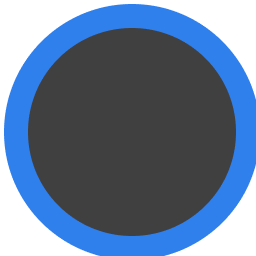
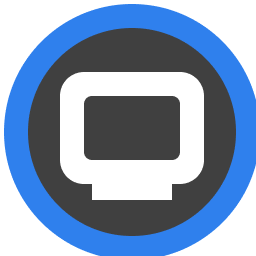
Basic menu opening

Changed region(s): [[0.2188, 0.2812, 0.8125, 0.7812]]

diff --git a/src/react-components/2d-hud.js b/src/react-components/2d-hud.js
@@ -9,55 +9,94 @@ class TopHUD extends Component {
   static propTypes = {
     muted: PropTypes.bool,
     frozen: PropTypes.bool,
-    videoShareSource: PropTypes.bool,
+    videoShareSource: PropTypes.string,
+    availableVREntryTypes: PropTypes.object,
     onToggleMute: PropTypes.func,
     onToggleFreeze: PropTypes.func,
     onSpawnPen: PropTypes.func,
     onSpawnCamera: PropTypes.func,
-    onShareVideo: PropTypes.func
+    onShareVideo: PropTypes.func,
+    onEndShareVideo: PropTypes.func
   };
 
   state = {
     showVideoShareOptions: false
   };
 
-  handleVideoShareClicked = source => {};
+  handleVideoShareClicked = source => {
+    if (this.props.videoShareSource) {
+      this.props.onEndShareVideo();
+    } else {
+      this.props.onShareVideo(source);
+    }
+  };
+
+  buildVideoSharingButtons = () => {
+    if (this.props.availableVREntryTypes.isInHMD) return null;
+
+    const videoShareExtraOptionTypes = [];
+    const primaryVideoShareType = this.props.videoShareSource || (AFRAME.utils.device.isMobile() ? "camera" : "screen");
+
+    if (this.state.showVideoShareOptions) {
+      videoShareExtraOptionTypes.push(primaryVideoShareType);
+
+      ["screen", "window", "camera"].forEach(t => {
+        if (videoShareExtraOptionTypes.indexOf(t) === -1) {
+          videoShareExtraOptionTypes.push(t);
+        }
+      });
+    }
+
+    const showExtrasOnHover = () => {
+      clearTimeout(this.hideVideoSharingButtonTimeout);
+      this.setState({ showVideoShareOptions: true });
+    };
+
+    const hideExtrasOnOut = () => {
+      this.hideVideoSharingButtonTimeout = setTimeout(() => {
+        this.setState({ showVideoShareOptions: false });
+      }, 250);
+    };
+
+    return (
+      <div
+        className={cx(styles.iconButton, styles.share_screen, {
+          [styles.active]: this.props.videoShareSource === primaryVideoShareType
+        })}
+        title={this.props.videoShareSource !== null ? "Stop sharing" : `Share ${primaryVideoShareType}`}
+        onClick={() => {
+          if (!this.state.showVideoShareOptions) {
+            this.handleVideoShareClicked(primaryVideoShareType);
+          }
+        }}
+        onMouseOver={showExtrasOnHover}
+      >
+        {videoShareExtraOptionTypes.length > 0 && (
+          <div className={cx(styles.videoShareExtraOptions)} onMouseOut={hideExtrasOnOut}>
+            {videoShareExtraOptionTypes.map(type => (
+              <div
+                key={type}
+                className={cx(styles.iconButton, styles[`share_${type}`], {
+                  [styles.active]: this.props.videoShareSource === type
+                })}
+                title={this.props.videoShareSource === type ? "Stop sharing" : `Share ${type}`}
+                onClick={() => this.handleVideoShareClicked(type)}
+                onMouseOver={showExtrasOnHover}
+              />
+            ))}
+          </div>
+        )}
+      </div>
+    );
+  };
 
   render() {
+    const videoSharingButtons = this.buildVideoSharingButtons();
+
     return (
       <div className={cx(styles.container, styles.top, styles.unselectable)}>
         <div className={cx(uiStyles.uiInteractive, styles.panel, styles.left)}>
-          <div
-            className={cx(styles.iconButton, styles.share_screen, {
-              [styles.active]: this.props.videoShareSource === "screen"
-            })}
-            title={this.props.videoShareSource === "screen" ? "Stop Screen Sharing" : "Share Screen"}
-            onClick={() => this.handleVideoShareClicked("screen")}
-          >
-            <div className={cx(styles.videoShareExtraOptions)}>
-              <div
-                className={cx(styles.iconButton, styles.share_window, {
-                  [styles.active]: this.props.videoShareSource === "window"
-                })}
-                title={this.props.videoShareSource === "window" ? "Stop Window Sharing" : "Share Window"}
-                onClick={() => this.handleVideoShareClicked("window")}
-              />
-              <div
-                className={cx(styles.iconButton, styles.share_window, {
-                  [styles.active]: this.props.videoShareSource === "window"
-                })}
-                title={this.props.videoShareSource === "window" ? "Stop Window Sharing" : "Share Window"}
-                onClick={() => this.handleVideoShareClicked("window")}
-              />
-              <div
-                className={cx(styles.iconButton, styles.share_camera, {
-                  [styles.active]: this.props.videoShareSource === "camera"
-                })}
-                title={this.props.videoShareSource === "camera" ? "Stop Camera Sharing" : "Share Camera"}
-                onClick={() => this.handleVideoShareClicked("camera")}
-              />
-            </div>
-          </div>
+          {videoSharingButtons}
           <div
             className={cx(styles.iconButton, styles.mute, { [styles.active]: this.props.muted })}
             title={this.props.muted ? "Unmute Mic" : "Mute Mic"}

diff --git a/src/scene-entry-manager.js b/src/scene-entry-manager.js
@@ -246,31 +246,16 @@ export default class SceneEntryManager {
       if (isHandlingVideoShare) return;
       isHandlingVideoShare = true;
 
-      if (!currentVideoShareEntity) {
-        const newStream = await navigator.mediaDevices.getUserMedia(constraints);
-        const videoTracks = newStream ? newStream.getVideoTracks() : [];
+      const newStream = await navigator.mediaDevices.getUserMedia(constraints);
+      const videoTracks = newStream ? newStream.getVideoTracks() : [];
 
-        if (videoTracks.length > 0) {
-          newStream.getVideoTracks().forEach(track => mediaStream.addTrack(track));
-          NAF.connection.adapter.setLocalMediaStream(mediaStream);
-          currentVideoShareEntity = spawnMediaInfrontOfPlayer(mediaStream, undefined);
-        }
-
-        this.scene.emit("share_video_enabled", { constraints });
-      } else {
-        currentVideoShareEntity.parentNode.removeChild(currentVideoShareEntity);
-
-        for (const track of mediaStream.getVideoTracks()) {
-          mediaStream.removeTrack(track);
-        }
-
+      if (videoTracks.length > 0) {
+        newStream.getVideoTracks().forEach(track => mediaStream.addTrack(track));
         NAF.connection.adapter.setLocalMediaStream(mediaStream);
-        currentVideoShareEntity = null;
-
-        this.scene.emit("share_video_disabled");
+        currentVideoShareEntity = spawnMediaInfrontOfPlayer(mediaStream, undefined);
       }
 
-      isHandlingVideoShare = false;
+      this.scene.emit("share_video_enabled", { source: constraints.video.mediaSource });
     };
 
     this.scene.addEventListener("action_share_camera", () => {
@@ -307,6 +292,22 @@ export default class SceneEntryManager {
           frameRate: 30
         }
       });
+    });
+
+    this.scene.addEventListener("action_end_video_sharing", () => {
+      if (isHandlingVideoShare) return;
+      isHandlingVideoShare = true;
+      currentVideoShareEntity.parentNode.removeChild(currentVideoShareEntity);
+
+      for (const track of mediaStream.getVideoTracks()) {
+        mediaStream.removeTrack(track);
+      }
+
+      NAF.connection.adapter.setLocalMediaStream(mediaStream);
+      currentVideoShareEntity = null;
+
+      this.scene.emit("share_video_disabled");
+      isHandlingVideoShare = false;
     });
   };
 

diff --git a/src/assets/stylesheets/2d-hud.scss b/src/assets/stylesheets/2d-hud.scss
@@ -50,12 +50,18 @@
     display: flex;
     flex-direction: column;
     border-radius: 30px;
-    padding: 5px 5px 8px 5px;
-    background-color: rgba(79, 79, 79, 0.2);
+    padding: 3px 3px 6px 3px;
+    background-color: rgba(72, 72, 72, 0.2);
+    border: 2px solid rgba(72, 72, 72, 0.3);
+    pointer-events: auto;
     z-index: 1;
 
     :local(.iconButton) {
       margin-top: 4px;
+    }
+
+    :local(.iconButton):first-child {
+      margin-top: 0;
     }
   }
 }

diff --git a/src/react-components/ui-root.js b/src/react-components/ui-root.js
@@ -1057,6 +1057,7 @@ class UIRoot extends Component {
                 muted={this.state.muted}
                 frozen={this.state.frozen}
                 spacebubble={this.state.spacebubble}
+                availableVREntryTypes={this.props.availableVREntryTypes}
                 onToggleMute={this.toggleMute}
                 onToggleFreeze={this.toggleFreeze}
                 onToggleSpaceBubble={this.toggleSpaceBubble}
